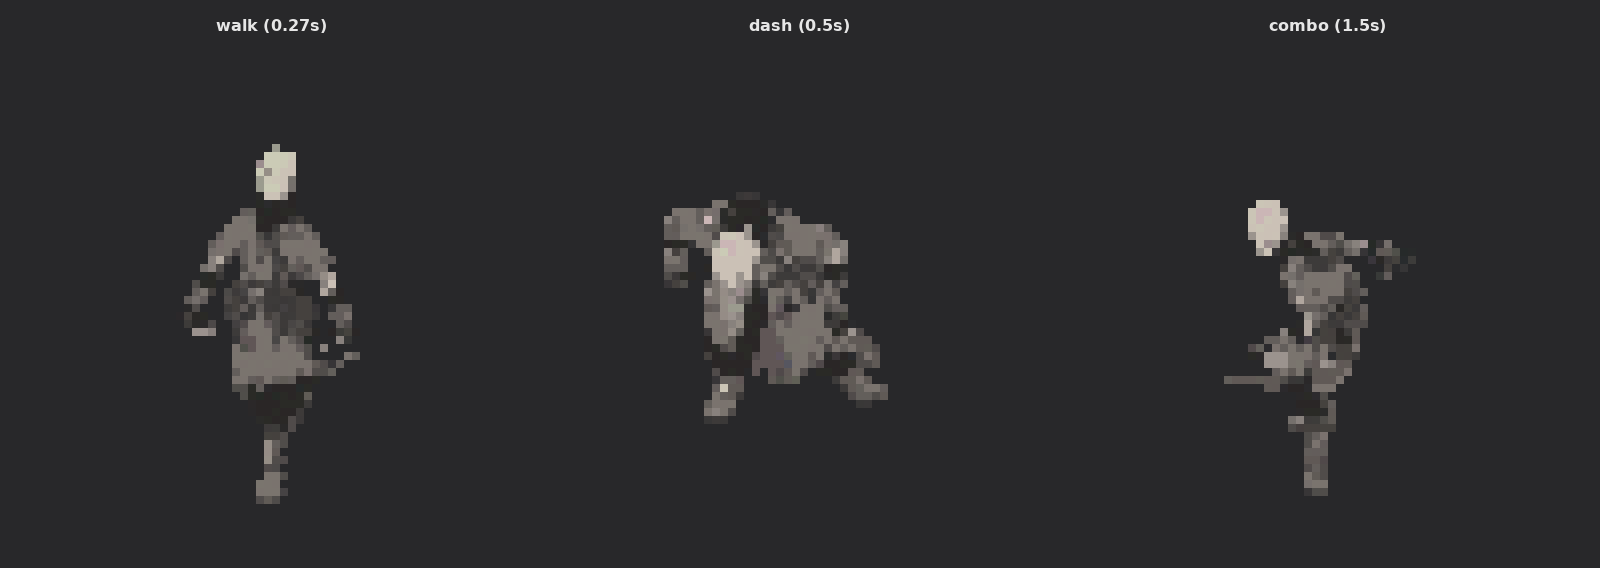
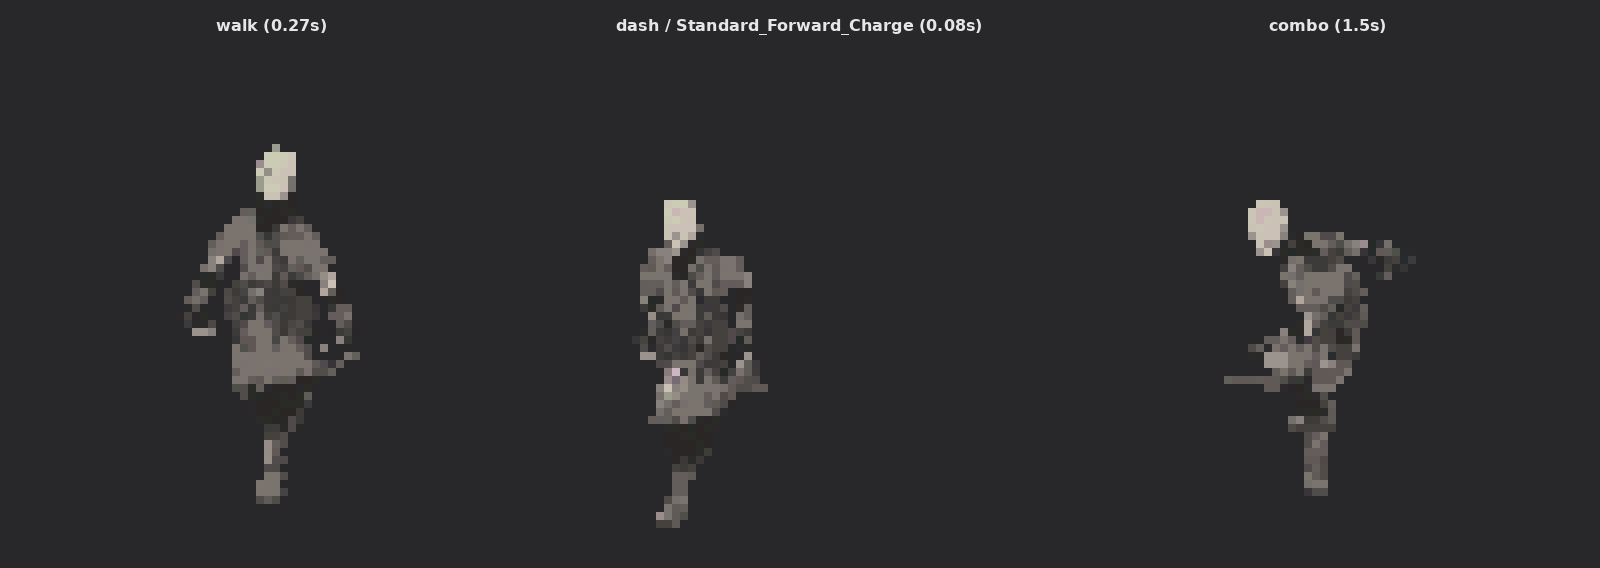
Bake-off Voie C: remplace dash Roll_Dodge par Standard_Forward_Charge
Milan tranche (option 1) suite au diagnostic flou : source du dash
remplacee par un vrai dash lineaire (Standard_Forward_Charge, deja
telecharge/paye lors du diagnostic), pas de remesh. anim_time=0.08
retenu (jambe arriere etendue, buste penche, lecture la plus dynamique
parmi 4 candidats). meshy_dash_raw/64.png et comparison_meshy_actions
regeneres au meme cadrage/pipeline que marche/combo. Resultat net,
coherent avec le diagnostic. Aucun cout supplementaire.

Changed region(s): [[0.375, 0.3292, 0.5625, 0.7482], [0.375, 0.0299, 0.625, 0.0599], [0.4062, 0.8081, 0.4375, 0.9278]]

diff --git a/docs/worklog.md b/docs/worklog.md
@@ -3848,3 +3848,29 @@ même discipline que les autres GLB bruts). Le remesh (étape 3) n'est
 PAS engagé — devenu probablement inutile au vu du résultat charge, mais
 la décision finale (remesh quand même / remplacer dash par charge /
 autre) revient à Milan.
+
+## 2026-08-20 — Dash définitif : remplacement Roll_Dodge → Standard_Forward_Charge
+
+Milan tranche : option 1 (remplacer la source du dash). Pas de remesh.
+
+Choix du temps représentatif : 4 candidats comparés (`t=0.05/0.08/0.13`
++ le `t=0.1` du diagnostic précédent), tous bien cadrés avant que le
+root motion ne sorte la pose du cadre fixe. Retenu **`t=0.08`** — jambe
+arrière pleinement étendue, buste penché en avant, lecture la plus
+dynamique d'un élan de dash parmi les candidats.
+
+`meshy_dash_raw.png`/`meshy_dash_64.png` **remplacés** (même cadrage
+que marche/combo : `cam_size=2.3, char_center_y=0.83`, pipeline shader
+complet, downscale NEAREST 64px). `comparison_meshy_actions.png`
+régénéré avec le nouveau dash (label mis à jour :
+« dash / Standard_Forward_Charge (0.08s) »). Résultat net, cohérent
+avec le diagnostic — aucun flou résiduel.
+
+**Coût** : 0 crédit (animation déjà payée/téléchargée lors du
+diagnostic). Aucune dépense supplémentaire cette tranche.
+
+### Périmètre Voie C (idle + 3 animations) à nouveau complet, dash corrigé
+
+`gate_manifest_meshy.json` n'a pas besoin de mise à jour (il ne couvre
+que l'idle, pas les actions — inchangé). Pas de nouvelle action engagée
+au-delà de ce remplacement, en attente de la suite décidée par Milan.
